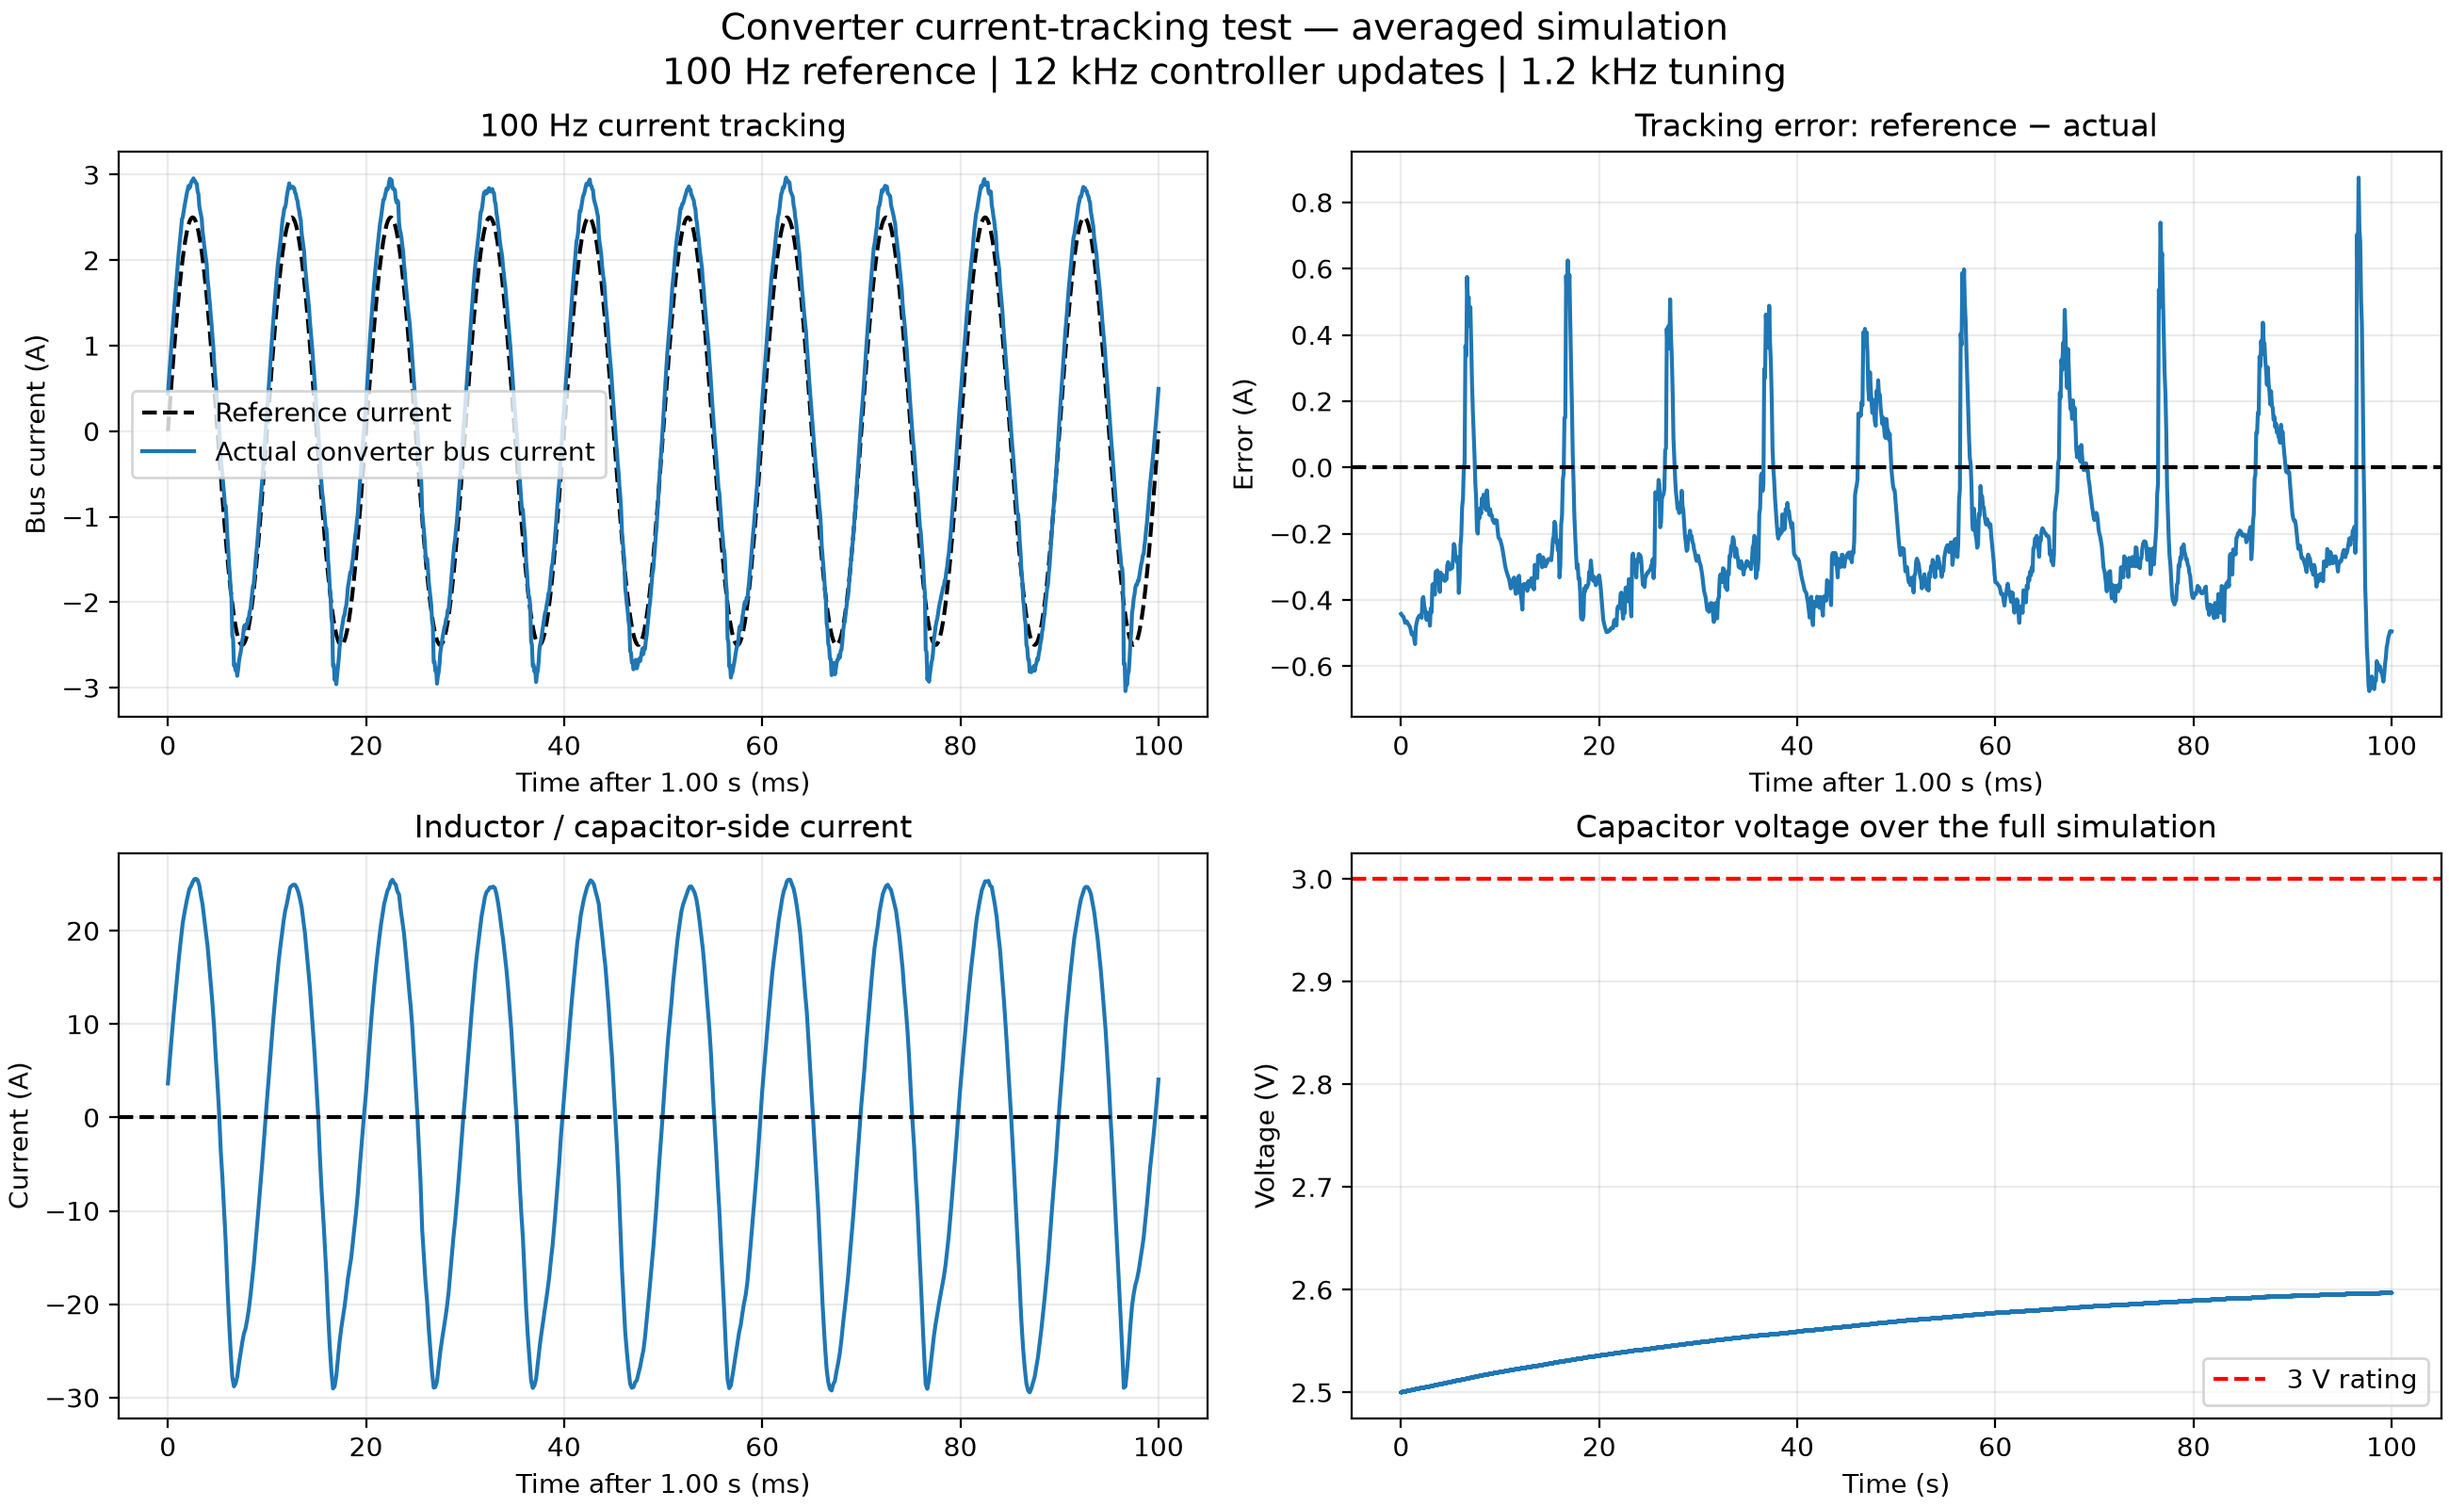
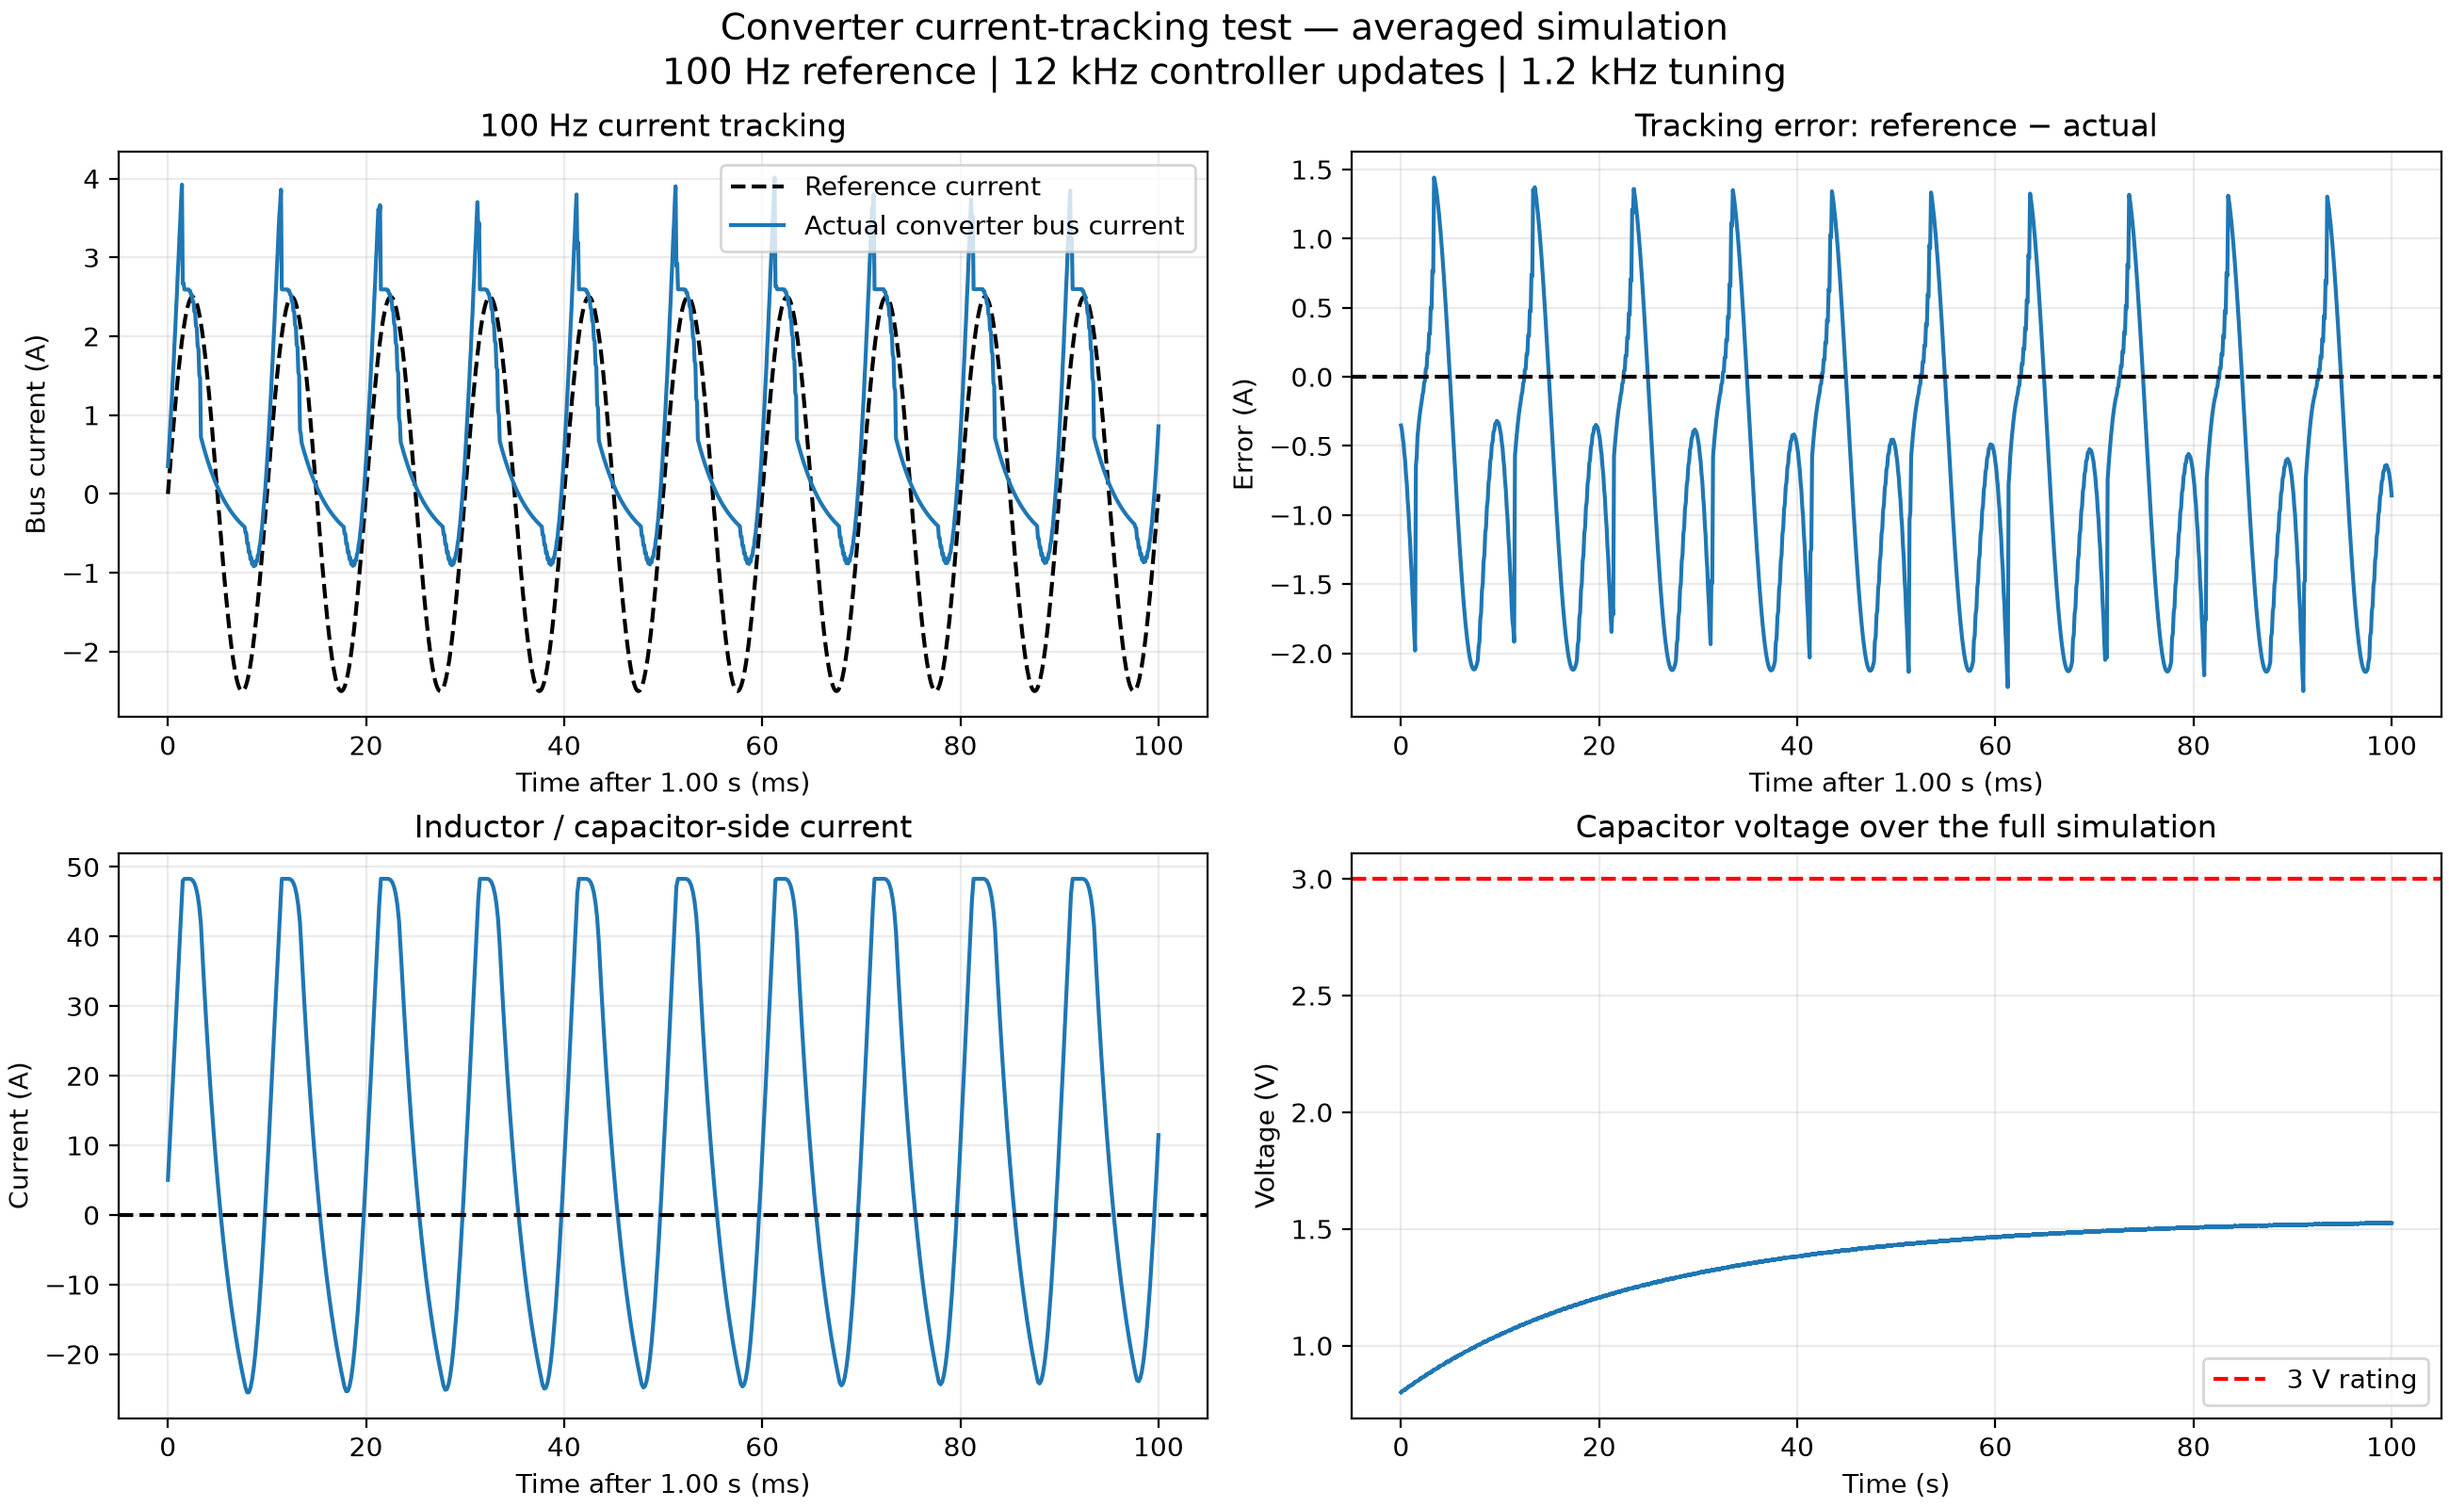
round 3.

diff --git a/Sims_and_Design/circuit_sim_modulation.c b/Sims_and_Design/circuit_sim_modulation.c
@@ -6,7 +6,7 @@
 
 #define PI                  3.14159265358979323846
 #define TWO_PI              (2.0 * PI)
-#define DELAY_AMOUNT        30       /* Sensor delay in circuit timesteps (must be >= 1) */
+#define DELAY_AMOUNT        1       /* Sensor delay in circuit timesteps (must be >= 1) */
 #if DELAY_AMOUNT < 1
 #error DELAY_AMOUNT must be at least 1 (the delay buffers and duty history use % DELAY_AMOUNT)
 #endif
@@ -15,17 +15,17 @@
    1 = pass it through the LC filter model below. That filter is built from the converter L and
    the supercap C (1.4 Hz resonance), which wipes out the 100 Hz signal, so leave it at 0
    unless you rebuild it with the battery-side input-filter values (L_EMI, C_shunt). */
-#define USE_BATTERY_FILTER  0
+#define USE_BATTERY_FILTER  1
 
 #define CAPACITANCE         440.0
 #define RESISTANCE          0.0095
 #define INDUCTANCE          28.3e-6
 #define VG                  24.0
-#define VC_INITIAL          2.5
+#define VC_INITIAL          0.8
 #define I_INITIAL           0.0
 #define FREQ_HZ             100.0
 #define CURRENT_AMPLITUDE   2.5
-#define I_LIMIT             30.0
+#define I_LIMIT             49.3
 #define CURRENT_MARGIN      1.0
 #define CONTROLLER_UPDATE_HZ        12000.0
 #define CONTROLLER_BANDWIDTH_HZ     150.0   /* was 300; lower = calmer with sensor delay and noise */
@@ -33,7 +33,7 @@
 #define MODULATION_CONTROLLER_CYCLES 2
 #define TOTAL_TIME          100
 #define SEED                0u
-#define NOISE_ENABLED       1
+#define NOISE_ENABLED       0
 #define SEED_TIME_SHIFT     20
 #define OUTPUT_NAME         "circuit_data.csv"
 
@@ -181,8 +181,8 @@ static int update_controller(const Circuit* c, Controller* k,
 
 #if USE_BATTERY_FILTER
     
-    //double ibat = filter_battery_current(k, c->m * k->i_sense); // with filter if on
-    double ibat = c->m * k->i_sense; // bypass filter if on
+    double ibat = filter_battery_current(k, c->m * k->i_sense); // with filter on
+    //double ibat = c->m * k->i_sense; // with filter off
 #else
     double ibat = c->m * k->i_sense;   /* battery-side current = duty * delayed inductor current */
 #endif
